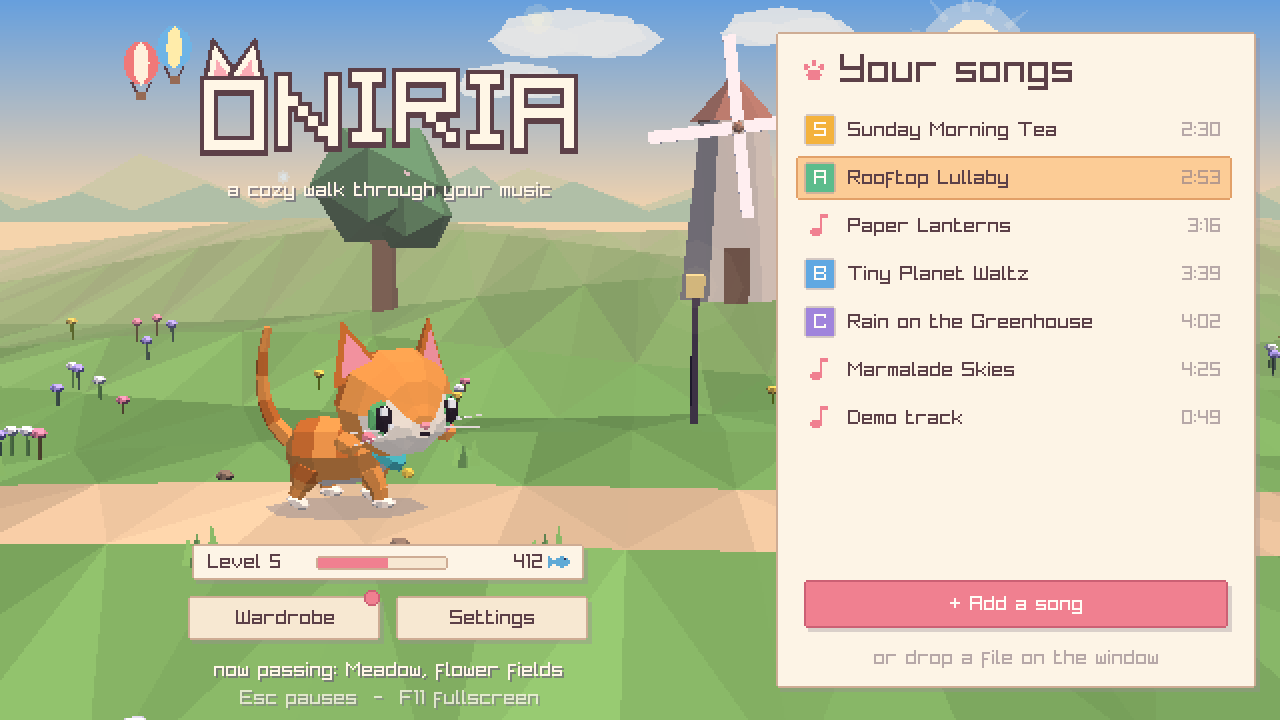
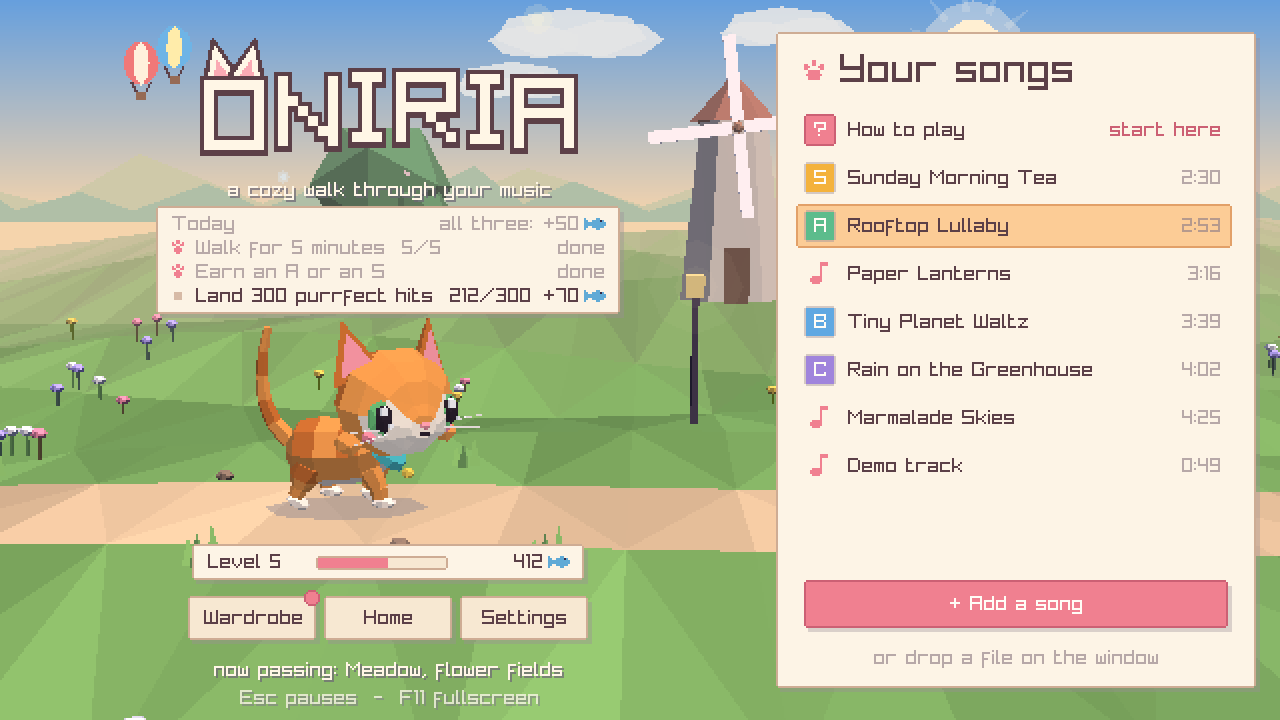
Document calibration, the guided walk, goals, the room, long notes and builds

diff --git a/README.md b/README.md
@@ -27,6 +27,16 @@ The cat walks by itself. Things appear on the path in time with the music, and e
 
 A soft spot of light just ahead of the cat marks where each thing should be answered. The arrow keys work too (left, down, up, right). `Esc` pauses, `F11` toggles fullscreen.
 
+**Long yarn.** Now and then, where the music holds a sound, a ball of yarn comes with a thread trailing behind it. Bat it with `F` and keep the key down while the cat reels the thread in. Holding to the end is a bonus; letting go early costs nothing but that bonus. Stretches of music that never let up also get a short breather.
+
+**New here?** *How to play* at the top of the song shelf is a guided walk: one part for each key, then all four together, then long yarn, with a line of advice on screen. If a part goes by mostly unanswered it is simply played again. Finishing it the first time pays 50 fish.
+
+**Gamepad.** The first connected pad works alongside the keyboard: d-pad left and right are hop and bat, the left and right face buttons are swat and ring (the other d-pad and face buttons double them), and Start pauses. In menus the d-pad moves, the bottom face button accepts and the right one goes back.
+
+| The guided walk | Long yarn |
+| --- | --- |
+| ![The guided walk](docs/img/lesson.png) | ![Long yarn](docs/img/long-note.png) |
+
 ### Streaks
 
 Every hit in a row makes the walk happier, and a miss calms it back down:
@@ -72,11 +82,25 @@ Nothing is random and nothing costs real money. Watch mode earns nothing. The re
 | --- | --- | --- |
 | ![Flower crown](docs/img/wardrobe-crown.png) | ![Beanie, scarf and balloon](docs/img/wardrobe-balloon.png) | ![Straw hat, scarf and backpack](docs/img/wardrobe-backpack.png) |
 
+### Today's goals
+
+Three small goals a day, on the main menu: finish a couple of walks, land so many purrfect hits, reach a streak, pass through a certain place, and so on. They are picked from the date, so they are the same all day and need no connection. Each pays fish once, and all three together pay 50 more.
+
+### The cat's room
+
+**Home** (from the main menu, or `H`) is a little room with seven spots: walls, rug, bed, plant, lamp, toys and something for the wall. Each has four choices; the first is free (the bed starts as a cardboard box, which every cat prefers anyway) and the rest are bought with fish, from 70 for a little cactus to 500 for the cat tree. Furnishing everything takes 4210 fish, so there is always something to save up for after the wardrobe is full. As in the wardrobe, selecting something you do not own shows it in the room first. The window shows the same sky as outside.
+
+![The cat's room](docs/img/home.png)
+
 ### Settings
 
 **Settings** (from the main menu, the song screen, or `S`) has four tabs: **Sound** (music volume, effects volume, audio offset), **Game** (walking speed, key hints, how much the camera and screen effects move: still, gentle or full), **Display** (fullscreen, frame rate: 60, 120 or as fast as the display) and **Progress** (your lifetime numbers, and a reset).
 
 ![Settings](docs/img/settings.png)
+
+**Calibrate by ear** (Settings, Sound) sets the audio offset for you: a steady tick plays, you tap `D`, `F`, `J` or `K` along with it sixteen times, and the game measures how late your taps land. Do it once for each pair of headphones or speakers; Bluetooth usually needs it.
+
+![Audio calibration](docs/img/calibrate.png)
 
 ### Camera and impact
 
@@ -139,17 +163,27 @@ Drop an audio file on the window, use **Open a song**, or pass the file on the c
 
 There is also a built-in demo track, synthesized at startup, so the game is playable without any file.
 
-## Building (Windows)
+## Getting it
 
-You need Visual Studio 2022 (or the Build Tools) with the "Desktop development with C++" workload.
+Every push is built automatically by GitHub Actions; the Windows build of any commit can be downloaded from its run under the repository's **Actions** tab (`oniria-windows-x64`). Pushing a tag such as `v0.1.0` publishes a release with the same zip attached. It is one executable of about 1 MB, with nothing to install.
+
+## Building
+
+**Windows.** You need Visual Studio 2022 (or the Build Tools) with the "Desktop development with C++" workload.
 
 ```bat
 build.bat
 ```
 
-The first run downloads the prebuilt raylib 6.2 release into `third_party/` (checked against a pinned SHA-256) and then compiles `build\oniria.exe`, a single executable of about 1 MB with no other files to ship.
+The first run downloads the prebuilt raylib 6.2 release into `third_party/` (checked against a pinned SHA-256) and then compiles `build\oniria.exe`.
 
-Other platforms are not set up yet. The game code is portable; `src/platform_win.cpp` holds the Windows-only parts (file dialog, low-latency keyboard) next to stubs for everything else.
+**Linux (experimental).** With `g++`, `curl` and the X11 and OpenGL development packages installed:
+
+```sh
+sh build.sh
+```
+
+All the game code is shared, but the timestamped keyboard input and the file dialog exist only on Windows (`src/platform_win.cpp` holds them next to plain fallbacks). On Linux keys are read once a frame, and songs are opened by dropping a file on the window or passing its path on the command line.
 
 ## How it works
 
@@ -180,9 +214,19 @@ The long version is in [docs/how-it-works.md](docs/how-it-works.md), and the sto
   | Saving | best score, library entry and lifetime progress written to disk and read back by the next run |
   | Fish and levels | a later run with the economy in place: the walk paid 41 fish and 96 experience, reached level 2 and its reward, then the test opened the wardrobe with real keys, tried a hat on and bought it (171 fish to 91); all of it was on disk afterwards |
 
+- **What was added since**, each with its own end-to-end run (real key presses, real audio thread, volume at zero):
+
+  | | |
+  | --- | --- |
+  | Calibration | taps sent 45 ms after each tick on purpose were measured as +45.5 ms and the game suggested +45 |
+  | Guided walk | the first part was ignored on purpose and came round again; then everything was answered; the first-time 50 fish were paid once |
+  | Today's goals | a walk that earned an A completed "earn an A or an S" and was paid its 50 fish; the day's numbers were on disk afterwards |
+  | The cat's room | opened with `H`, showed a rug that was not owned, bought it with Enter (411 fish to 321), and it was placed and saved |
+  | Long yarn | of five long notes in a walk, the three the test held to the end paid their bonus and the two it let go of early did not, with no penalty |
+
 - **Sound effects** were measured rather than heard: no clipping, no DC offset, attacks of 3 to 13 ms (no clicks), and practically no energy above 4 kHz.
 
-Still not verified, because it needs a person: how the timing *feels* (injected keys skip the keyboard itself, and the delay between the audio callback and the speakers cannot be measured from inside the program, which is what the audio offset setting is for), whether the sounds are pleasant, how well the charts fit music other than the two test tracks, and whether the prices and the level curve feel right.
+Still not verified, because it needs a person: how the timing *feels* (injected keys skip the keyboard itself, and the delay between the audio callback and the speakers cannot be measured from inside the program, which is what the audio offset setting is for), whether the sounds are pleasant, how well the charts fit music other than the two test tracks, and whether the prices and the level curve feel right. **Gamepad support has not been tried with a real pad**; it is written against raylib's standard mapping and nothing more. The automatic builds pass on both Windows and Linux, including the analysis self-test, but the Linux build has only been compiled and self-tested there: nobody has opened its window or played it.
 
 ## Project layout
 
@@ -191,6 +235,8 @@ src/main.cpp          game loop, renderer, UI
 src/analysis.cpp      onset detection, chart generation, demo track
 src/sfx.cpp           synthesized sound effects
 src/platform_win.cpp  file dialog, raw keyboard input
+build.bat, build.sh   Windows and Linux builds
+.github/workflows/    automatic builds and releases
 scripts/              dependency download
 docs/                 design notes and devlog
 ```

diff --git a/docs/how-it-works.md b/docs/how-it-works.md
@@ -44,6 +44,16 @@ Notes are then spread over four lanes by pitch: the centroid's quartiles decide 
 
 The game maps lanes to actions per difficulty (`kLaneAction` in `main.cpp`) in a way that guarantees a double always pairs something on the ground with something in the air.
 
+### 4b. Long notes and breathers
+
+A second pass shapes each chart once the loudness envelopes exist.
+
+About once every seven to nine seconds (depending on the difficulty) it looks for the note with the most *sustained* sound after it: the summed band envelopes must stay above 55% of their level just after the onset for the whole length of the long note (1.0 to 1.4 s). The best candidate in each window becomes a long note, and the notes it would overlap are dropped. Music with no sustained sounds simply gets none.
+
+Then it looks for stretches of 45 seconds without a two-second gap, and opens one: the notes in the quietest 2.6 seconds of the stretch are dropped.
+
+In the game every long note is yarn, whatever lane it came from, so there is only ever one at a time and it is always the same key. Holding pays a few points every 150 ms and a bonus at the end; releasing early just stops the points. There is deliberately no way to fail one.
+
 ### 5. The landscape
 
 The path height is the song's loudness averaged over four-second windows, so quiet passages are valleys and loud ones are hilltops. The band loudness and the bass flux are also kept as envelopes, sampled every 8 ms, which the scene reads while playing: trees bop on the kick, stars and fireflies react to the highs.
@@ -125,6 +135,26 @@ What the cat wears is three more shapes built by `BuildCat`: one in head space (
 
 The head is close to an ellipsoid, so hats are lofts of ellipses that follow it: a brim is a ring at the height where the head is that wide, a beanie's cuff hugs it just above the eyes. The head is also so large that a level collar would be hidden inside it, so everything worn round the neck lies in a plane that leans forward, high behind the head and low under the chin, where it shows as a curve across the chest. Things on the back sit behind the point where the head stops covering it.
 
+## Audio calibration
+
+The offset between when sound leaves the program and when it reaches the ears cannot be measured from inside, so the player measures it. The audio thread runs a metronome itself: it starts a tick every 0.6 s at an exact sample and records the time that sample went out. The player taps along with the game keys, which come through the same timestamped input path as in play. Each tap is compared with the nearest tick (plus the same base latency the game assumes while playing), and the median of sixteen taps is the offset. The median, not the mean, so one stray tap does not matter; the median distance from the median is shown as a hint when the taps were uneven. Nothing visual moves with the tick on purpose, since the screen has its own, different delay.
+
+## The guided walk
+
+*How to play* is not a separate mode. It loads the built-in track through the normal path, replaces the analysed charts with a hand-written one (six parts of sixteen beats, the first four beats of each left empty for reading), and starts the game with a flag set. The flag makes the chart's lanes mean actions directly, shows the line of advice, and adds one rule: when a part ends with fewer than half its things answered, those notes are reset and playback seeks back to the start of the part, twice at most.
+
+## Today's goals
+
+The three goals are a function of the date: the day number seeds a small generator that picks three different kinds out of seven and a smaller or larger version of each. Progress towards them is a handful of numbers for the current day in `oniria.save`; when the date changes they are cleared. No clock is trusted beyond the local date, and nothing is fetched.
+
+## The cat's room
+
+A fixed diorama: floorboards, three walls, a window whose glass is drawn in the colour of the sky outside, and one object for each of seven spots, all built from the same boxes, blobs, cones and beams as the rest of the world into a single shape that is rebuilt only when a choice changes. The cat is drawn with the same code as outdoors with the ground forced level. What is owned is one bit per choice, and what is placed is two bits per spot.
+
+## Gamepad
+
+raylib reports the first connected pad in a standard layout. While playing, its d-pad and face buttons are the four actions and are read once a frame, so unlike the keyboard they are stamped with the frame's time (at 120 frames a second that is at most 8 ms late). In menus they stand in for the arrow keys, Enter and Esc.
+
 ## Staying light
 
 - **Frame pacing.** The game sleeps on a high-resolution waitable timer (one per thread) until the next frame is due: 120 frames a second while playing, 60 in menus, 30 in the background, and no drawing at all while minimized. V-sync is still requested, but it is not relied on: a driver can switch it off, and the first measurement of the menu showed the loop spinning more than a whole core for exactly that reason. raylib's own limiter was avoided because it busy-waits part of every frame.
@@ -161,5 +191,7 @@ Two command-line modes exist for automated checks:
 - `oniria.exe --selftest` analyzes the demo track and prints note counts and timing error against its known grid, plus the length and level of every sound effect.
 - `oniria.exe --sfx-demo out.wav` writes sixteen perfect hits in a row, a milestone and a miss, for listening to the sounds outside the game.
 - `oniria.exe --sfx-dump folder` writes each sound effect as its own WAV, for measuring them.
+- `oniria.exe --robot log.txt --calibrate` runs the calibration screen and taps along 45 ms late on purpose; `--robot log.txt --lesson` takes the guided walk, ignoring its first part once; `--day n` pretends it is day `n` for the daily goals.
+- More `--shot` views: `calibrate` (with `--tab 0..2` for the phase), `tutorial`, `home` (with `--home 1232103` for what is placed, `--home-tab`, `--home-sel`), and `--today` for a half-finished day on the menu.
 - `oniria.exe --robot log.txt [--diff 0..2] [song file]` is the end-to-end test. The game runs for real, with its window, its audio thread and its raw input thread, but with the master volume at zero. A second thread waits for the song screen, presses Enter, and then presses D F J K through `SendInput` at the times the chart asks for, deliberately a little early or late on some notes and skipping every twenty-fifth; a third of the way in it pauses with Esc and resumes with Enter. Keys are only sent while the game window is in front, so they cannot land in another program. When the song ends the game writes what it measured: for each note the timing that was meant, when the key was really sent and what the game measured; then totals for input, audio, clock drift, frame times, camera travel, what the walk paid and what was saved. After the song it goes back to the menu, opens the wardrobe, moves down to the first hat for sale, checks that the model is trying it on, buys it with Enter if there are fish enough, and logs the fish and what is owned before and after. It does not write the settings file.
 - `oniria.exe --shot out.png [--view menu|ready|play|pause|results|wardrobe|settings] [--at seconds] [--diff 0..2] [--scenery 0..5] [--variant 0..2] [--cat 0..6] [--hat n] [--neck n] [--back n] [--tab 0..3] [--unlock-all] [--count] [--closeup] [--size WxH] [--seq n] [--seq-step frames] [--fish n] [--xp n] [--sel n] [song file]` renders offscreen with a simulated clock, in watch mode, and saves one frame, or with `--seq` a run of frames a few steps apart (`out_0.png`, `out_1.png`, ...) for looking at motion. Without a song file it uses the demo track.

diff --git a/docs/devlog.md b/docs/devlog.md
@@ -2,6 +2,24 @@
 
 Newest entries first.
 
+## 2026-11-13: six things that were missing
+
+A brainstorm produced six gaps, and this pass fills them.
+
+**Calibration by ear.** The audio offset was a number to adjust by hand. Now a tick plays and the player taps along. The tick is started by the audio thread itself at an exact sample, because a tick started from the game loop would carry the jitter of the frames, which is the size of the thing being measured. Tested by tapping 45 ms late on purpose: the game measured +45.5 ms.
+
+**A guided first walk.** One part per key, then all together, then long notes, over the built-in track. The part that mattered was "the music waits for you": rather than stopping the song, a part that goes mostly unanswered is rewound and played again. That needed a seek in the middle of a song, which had never been exercised; the end-to-end run that ignores the first part shows the timing after the seek is as tight as before it (0.4 ms).
+
+**Long notes and breathers.** Charts were all single taps. The analysis now turns notes over sustained sound into long ones and thins what they overlap, and opens a gap in stretches that never rest. On the demo track that is five long notes and 17 fewer taps on Playful. In the game they are all yarn with a thread to reel in, and they cannot be failed: letting go early only forgoes a bonus.
+
+**Daily goals.** Three a day, chosen from the date. The first version did not count the places walked through, because the day's numbers were only set up when the menu was drawn; the end-to-end run, which never shows the menu, caught it.
+
+**The cat's room.** Something for fish to go to after the wardrobe: seven spots, 21 things to buy, 4210 fish in all. The first render showed an empty purple screen: the room skipped the call that clears the depth buffer, so everything failed the depth test against the previous frame. The bed you start with is a cardboard box.
+
+**Getting it, and other inputs.** GitHub Actions builds every push on Windows and Linux and publishes a release on a version tag, so nobody needs a compiler to try it. A gamepad now works for play and menus. The Linux build is honest about being experimental: it shares the game code but has no timestamped key input. Both builds compiled and passed the self-test on the first automatic run; on Linux that is all that has been checked.
+
+**Not verified:** the gamepad (no pad here to press), and as always, how any of this feels to a person.
+
 ## 2026-11-13: fish and levels
 
 The previous entry measured that the unlock conditions went by too fast, and the entry before it said a cozy game should not have an economy. The second opinion lost: unlocking by one-off conditions gave no reason to come back to a song, and what was wanted is a game that rewards playing again and again.
